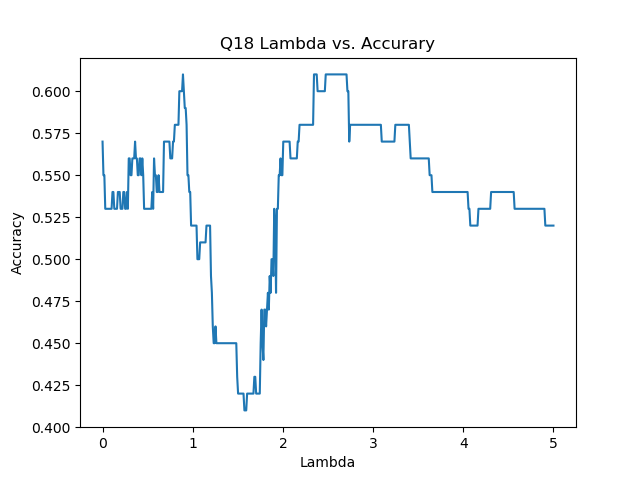
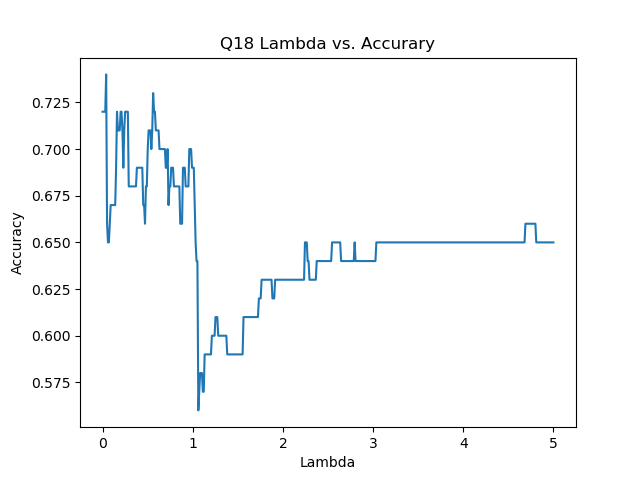
updated Q18-Q24

diff --git a/Project_3/Project3_Report.md b/Project_3/Project3_Report.md
@@ -85,7 +85,7 @@ Those two policy graphs are almost the same with slight difference. State 33, 34
 
 ## Question 19
 
-From the graph, we c·an see that lambda associated with maximum accuracy is  0.8917 and the accuray value is 0.61. The plot shows that there is a global minimum when the l1 regularization term is around 1.5. The relationship between lambda and accuracy is not linear or resembles any low degree polynomials.
+From the graph, we c·an see that lambda associated with maximum accuracy is  0.0400 and the accuray value is 0.74. The plot shows that there is a global minimum when the l1 regularization term is around 1.05. The relationship between lambda and accuracy is not linear or resembles any low degree polynomials.
 
 
 ## Question 20
